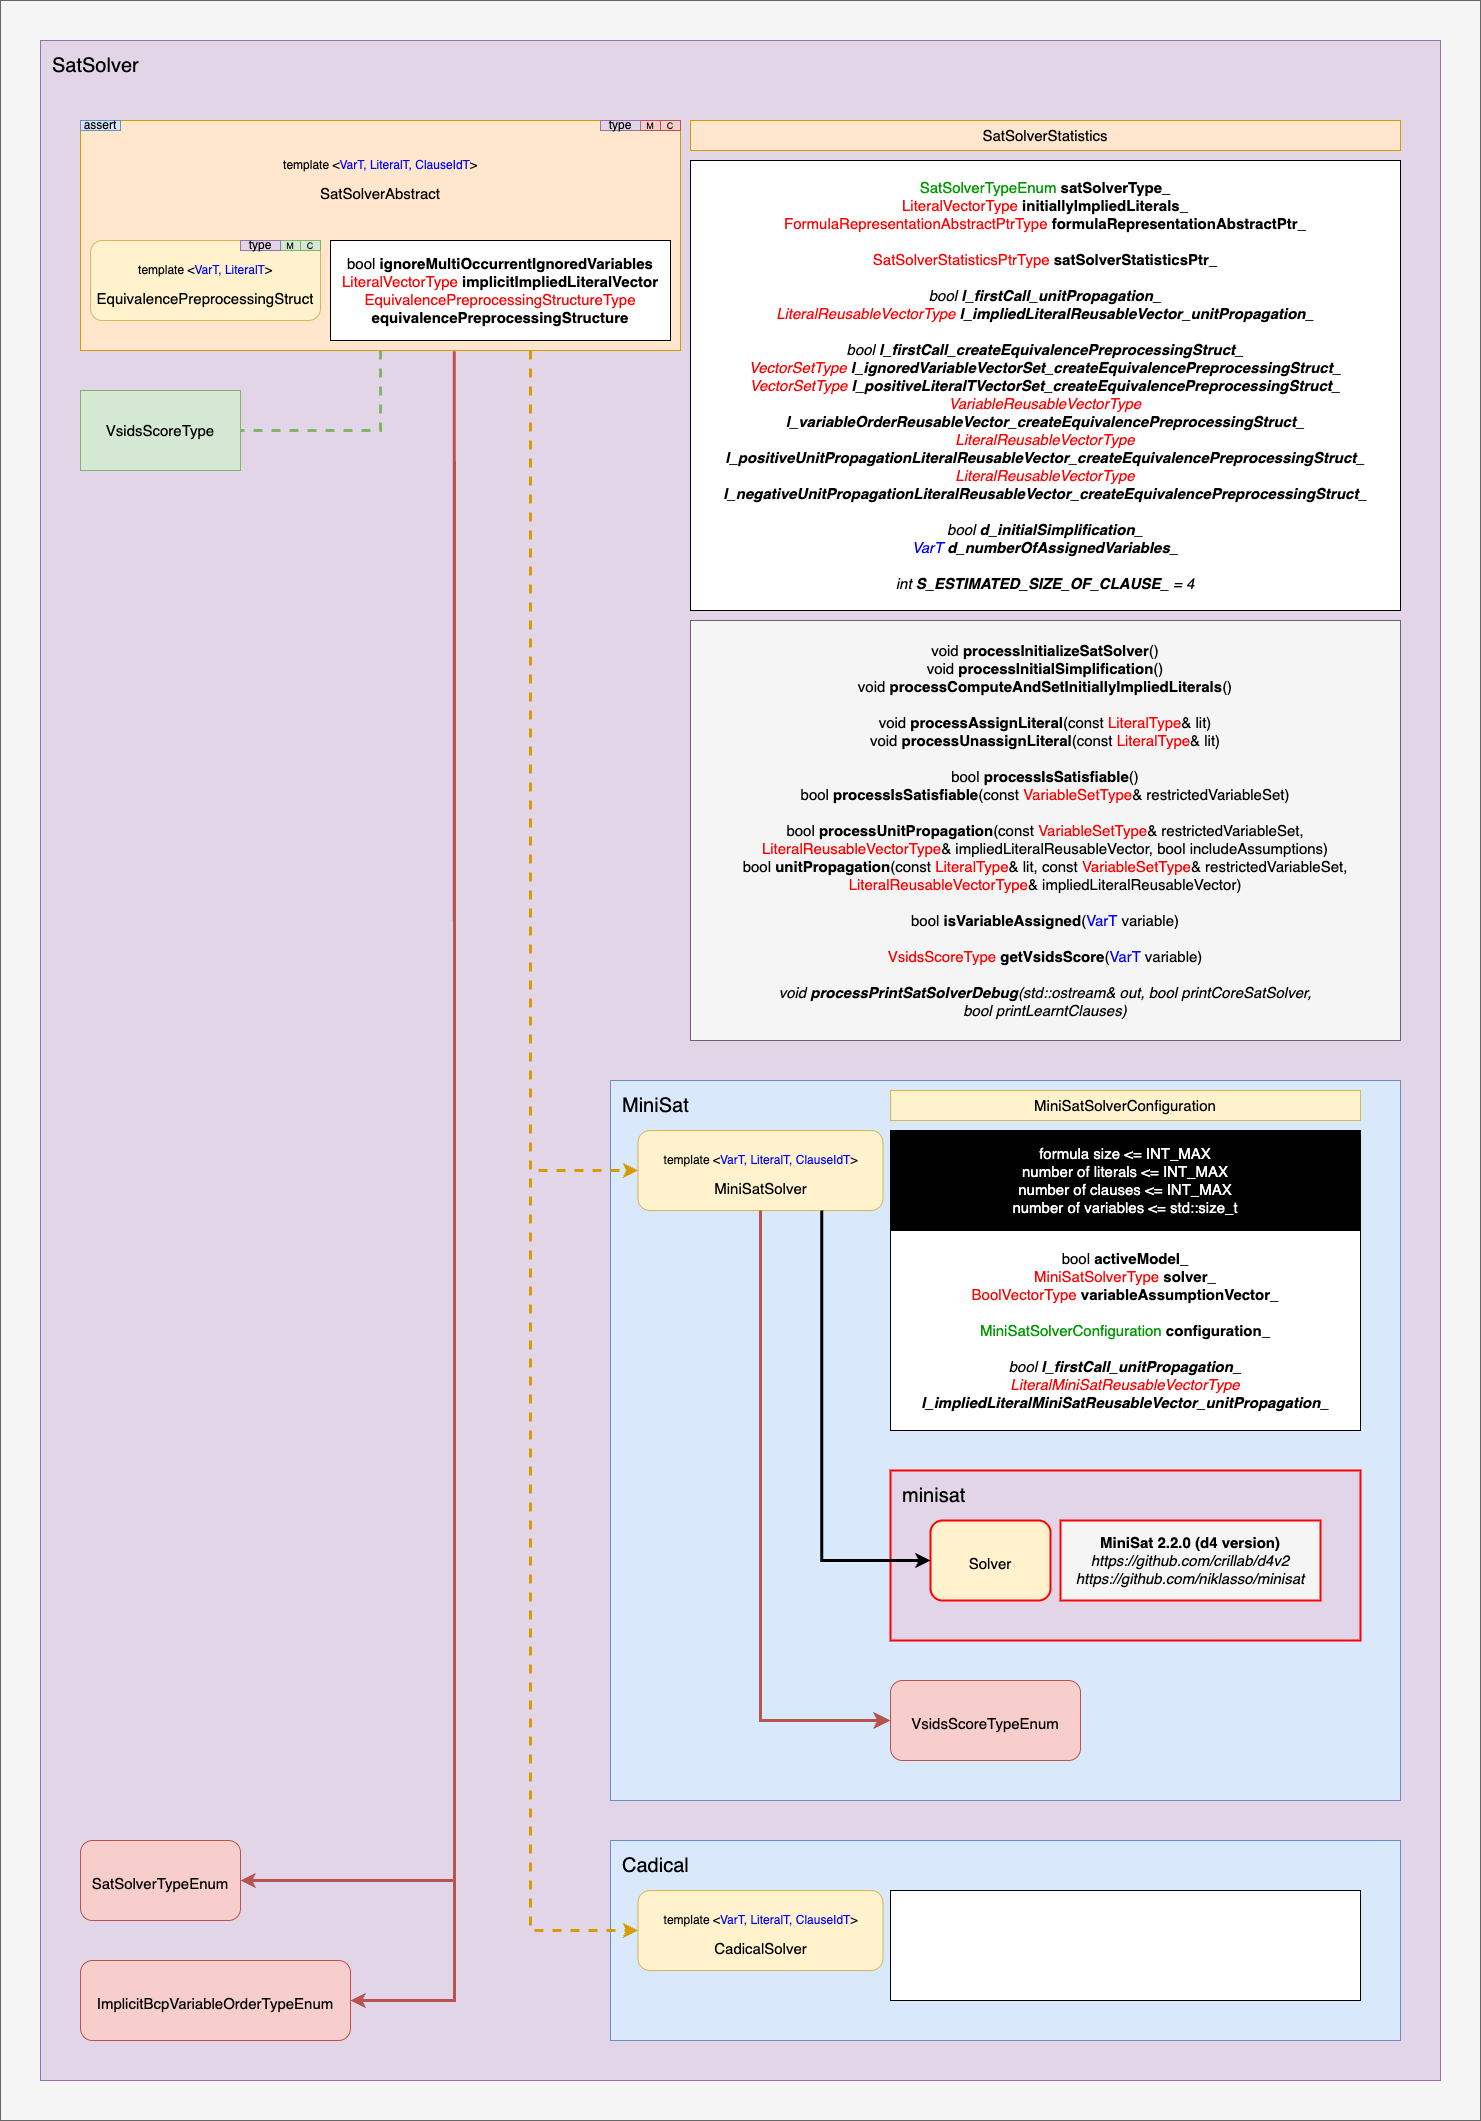
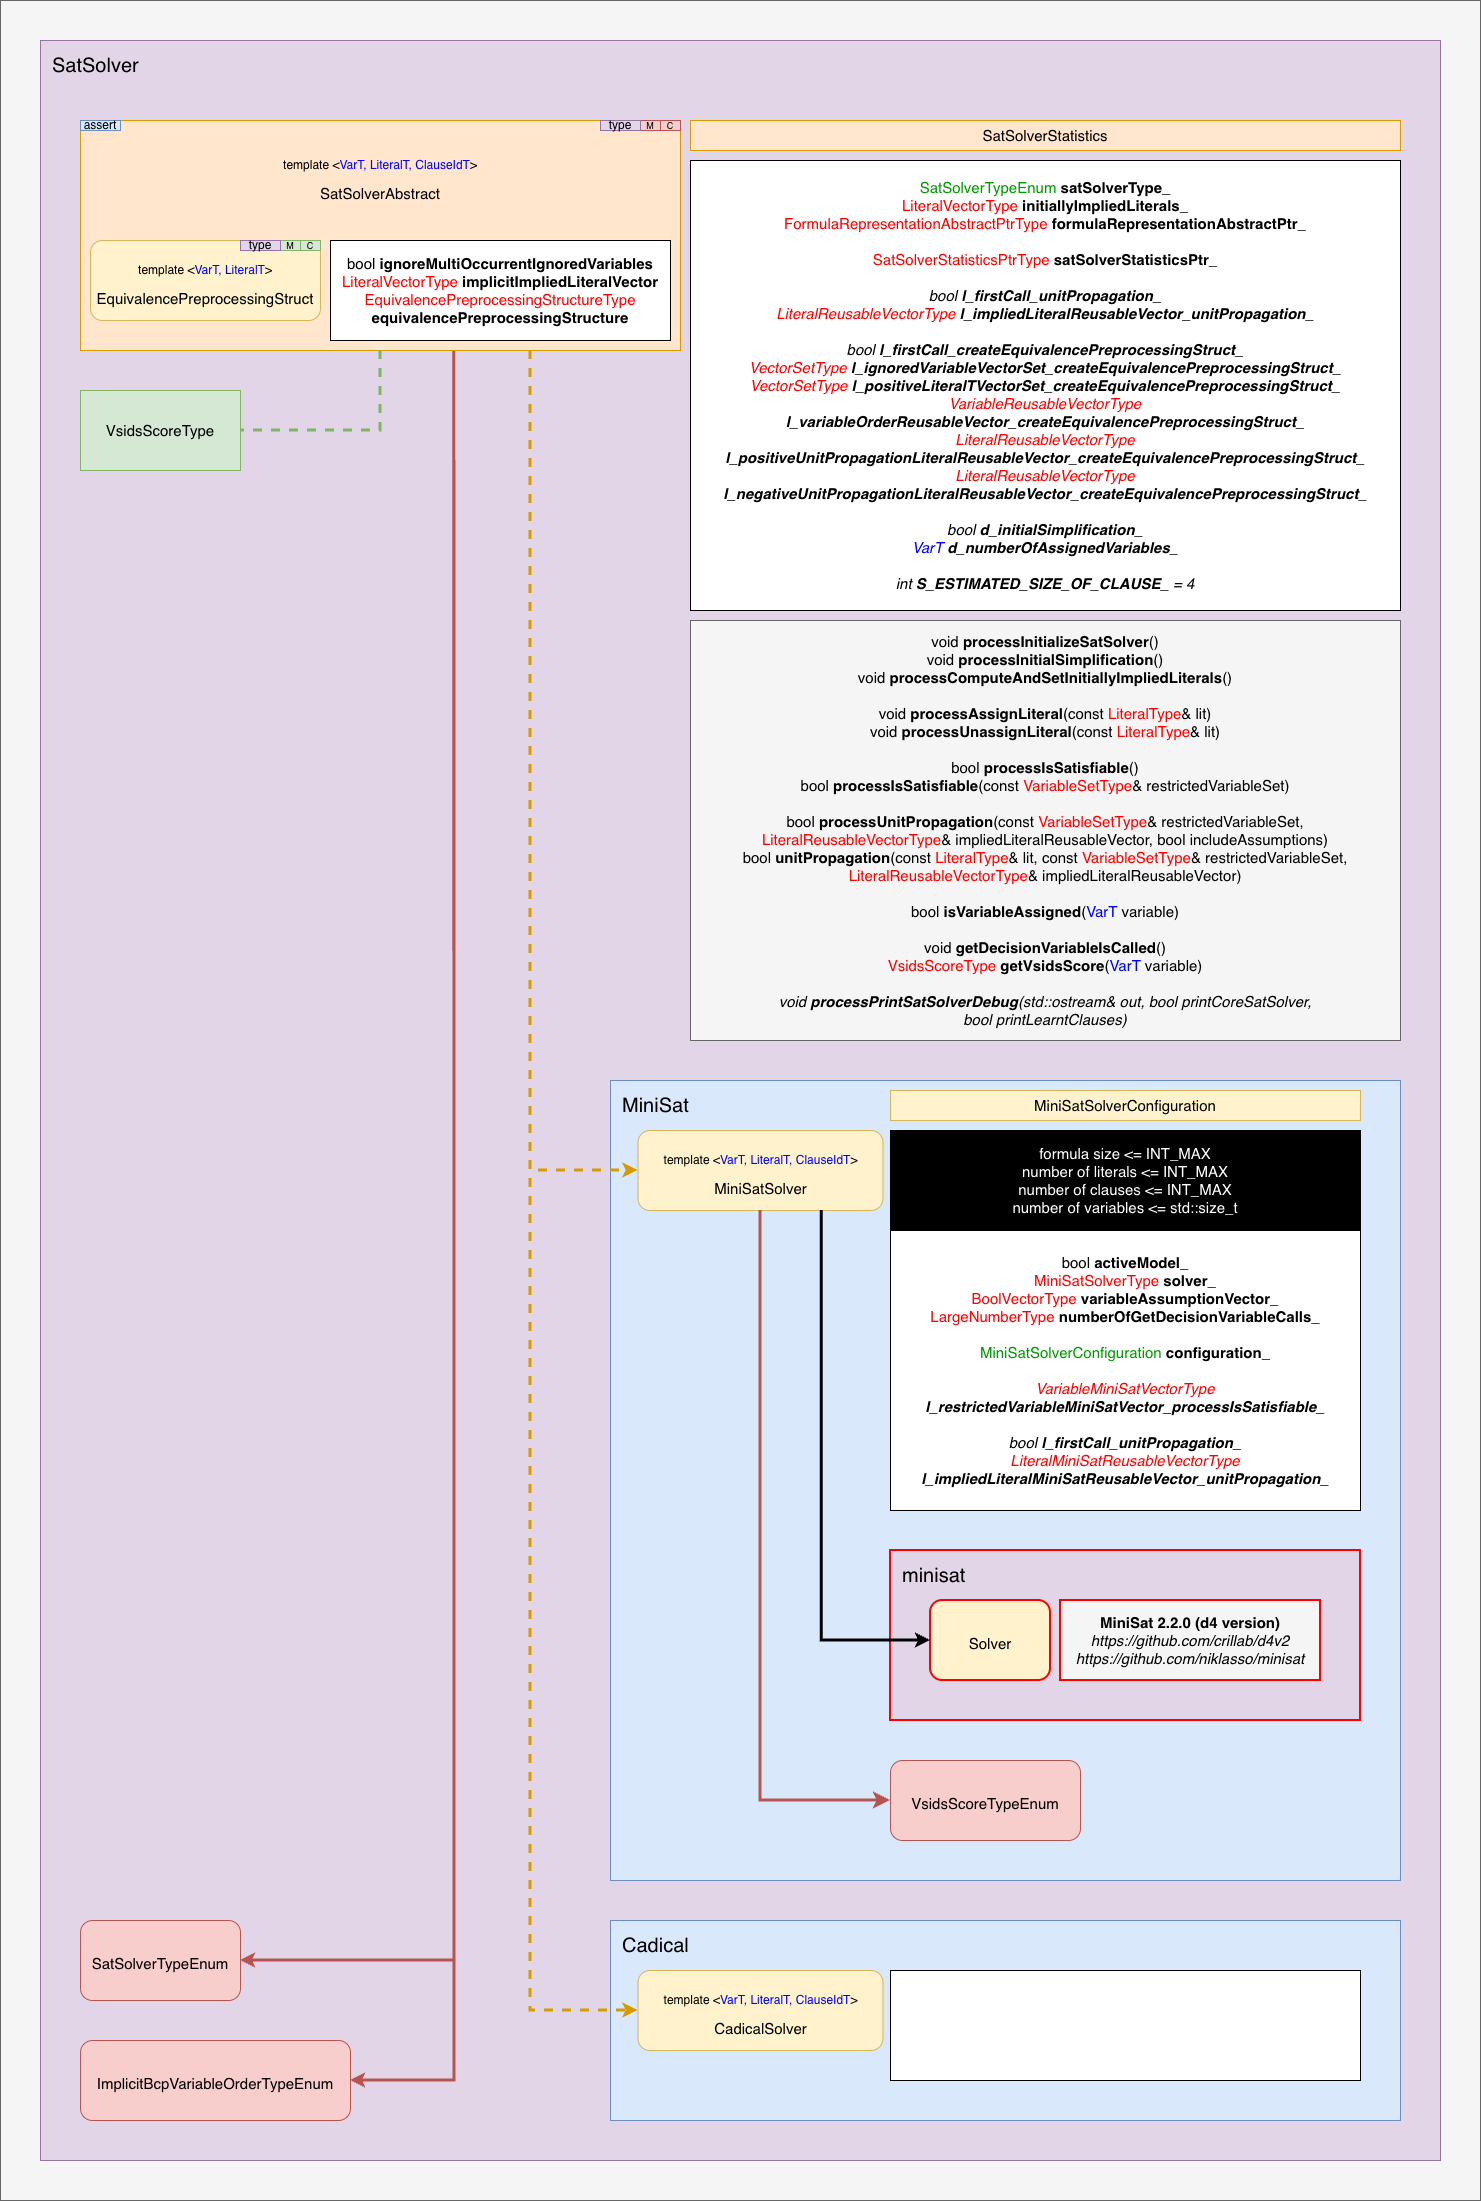
Refactoring SAT solver

diff --git a/Hydra/satSolver/minisat/MiniSatSolver.hpp b/Hydra/satSolver/minisat/MiniSatSolver.hpp
@@ -37,7 +37,6 @@ namespace Hydra::SatSolver::MiniSat {
     template <typename VarT, typename LiteralT, typename ClauseIdT>
     class MiniSatSolver final : public SatSolverAbstract<VarT, LiteralT, ClauseIdT> {
     private:
-        using LiteralMiniSatVectorType = typename minisat::vec<minisat::Lit>;
         using LiteralType = typename SatSolverAbstract<VarT, LiteralT, ClauseIdT>::LiteralType;
         using VariableSetType = typename SatSolverAbstract<VarT, LiteralT, ClauseIdT>::VariableSetType;
         using LiteralVectorType = typename SatSolverAbstract<VarT, LiteralT, ClauseIdT>::LiteralVectorType;
@@ -49,6 +48,8 @@ namespace Hydra::SatSolver::MiniSat {
     private:
         using BoolVectorType = std::vector<bool>;
         using MiniSatSolverType = minisat::Solver;
+        using LiteralMiniSatVectorType = minisat::vec<minisat::Lit>;
+        using VariableMiniSatVectorType = minisat::vec<minisat::Var>;
         using LiteralMiniSatReusableVectorType = Container::ReusableVector::ReusableVector<minisat::Lit>;
 
     public:
@@ -58,7 +59,9 @@ namespace Hydra::SatSolver::MiniSat {
             : SatSolverAbstract<VarT, LiteralT, ClauseIdT>(formulaRepresentationAbstractPtr, SatSolverTypeEnum::MINISAT, satSolverStatisticsPtr),
               activeModel_(false), solver_(),
               variableAssumptionVector_(this->formulaRepresentationAbstractPtr_->getNumberOfVariablesInOriginalFormulaUsedForIndexing(), false),
-              configuration_(configuration), l_firstCall_unitPropagation_(true), l_impliedLiteralMiniSatReusableVector_unitPropagation_() {
+              numberOfGetDecisionVariableCalls_(0), configuration_(configuration),
+              l_restrictedVariableMiniSatVector_processIsSatisfiable_(this->formulaRepresentationAbstractPtr_->getNumberOfVariablesInOriginalFormula()),
+              l_firstCall_unitPropagation_(true), l_impliedLiteralMiniSatReusableVector_unitPropagation_() {
             // The variables cannot be saved as std::size_t
             if (!Other::unsignedValueCanBeSavedAsStdSizeT<VarT>(this->formulaRepresentationAbstractPtr_->getNumberOfVariablesInOriginalFormula(), 1))
                 throw Exception::SomethingCannotBeSavedAsStdSizeTException("variables", this->formulaRepresentationAbstractPtr_->getNumberOfVariablesInOriginalFormula());
@@ -88,8 +91,12 @@ namespace Hydra::SatSolver::MiniSat {
         bool activeModel_;
         MiniSatSolverType solver_;
         BoolVectorType variableAssumptionVector_;
+        LargeNumberType numberOfGetDecisionVariableCalls_;
 
         MiniSatSolverConfiguration configuration_;
+
+        // Local auxiliary data structures for processIsSatisfiable
+        VariableMiniSatVectorType l_restrictedVariableMiniSatVector_processIsSatisfiable_;
 
         // Local auxiliary data structures for unitPropagation
         bool l_firstCall_unitPropagation_;
@@ -130,6 +137,8 @@ namespace Hydra::SatSolver::MiniSat {
                              LiteralReusableVectorType& impliedLiteralReusableVector) override;
 
         bool isVariableAssigned(VarT variable) const override;
+
+        void getDecisionVariableIsCalled() override;
 
     public:
         VsidsScoreType getVsidsScore(VarT variable) const override;

diff --git a/Bella/commandLineArguments/CommandLineArguments.cpp b/Bella/commandLineArguments/CommandLineArguments.cpp
@@ -211,6 +211,7 @@ namespace Bella::CommandLineArguments {
         commandLineArgumentsStruct.compilerConfiguration.useEquivalenceSimplificationMethod = Hydra::Other::Parser::CommandLineArguments::argumentExists(arguments, EQUIVALENCE_SIMPLIFICATION_METHOD_ARGUMENT);
 
         // SAT solver
+        commandLineArgumentsStruct.compilerConfiguration.satSolverType = Hydra::SatSolver::SatSolverTypeEnum::MINISAT;
         commandLineArgumentsStruct.compilerConfiguration.miniSatSolverConfiguration.vsidsScoreType = Hydra::SatSolver::MiniSat::VsidsScoreTypeEnum::D4_V2;
 
         // Component caching

diff --git a/Hydra/external/satSolvers/MiniSat_d4/Solver.hpp b/Hydra/external/satSolvers/MiniSat_d4/Solver.hpp
@@ -763,14 +763,12 @@ namespace minisat {
             rebuildOrderHeap();
         }   // rebuildWithAllVar
 
-        inline void rebuildWithConnectedComponent(vec<Var>&& v) {
+        inline void rebuildWithConnectedComponent(vec<Var>& v) {
+            v.copyTo(problemVariable);
             ++stampInTheHeap;
             for (int j = 0; j < v.size(); ++j)
                 if (value(v[j]) == l_Undef)
                     inTheHeap[v[j]] = stampInTheHeap;
-
-            v.moveTo(problemVariable);
-
             rebuildOrderHeap();
         }   // rebuidWithConnectedComponent
 

diff --git a/Hydra/satSolver/SatSolverAbstract.hpp b/Hydra/satSolver/SatSolverAbstract.hpp
@@ -217,6 +217,12 @@ namespace Hydra::SatSolver {
         const LiteralReusableVectorType& getImpliedLiteralReusableVectorFromPreviousCallOfUnitPropagation() const;
 
         /**
+         * The function is invoked when "getDecisionVariable" is called
+         * Note: used for decays
+         */
+        virtual void getDecisionVariableIsCalled() = 0;
+
+        /**
          * @param variable a variable
          * @return the VSIDS score of the variable
          * @throw SatSolverDoesNotSupportVsidsException if the SAT solver does not support VSIDS

diff --git a/Hydra/external/satSolvers/MiniSat_d4/Solver.cpp b/Hydra/external/satSolvers/MiniSat_d4/Solver.cpp
@@ -597,7 +597,7 @@ namespace minisat {
 
         for (int i = trail.size() - 1; i >= trail_lim[0]; i--) {
             Var x = var(trail[i]);
-            scoreActivityD4v2[x]++;   // CHANGED
+            ++scoreActivityD4v2[x];   // CHANGED
             if (seen[x]) {
                 if (reason(x) == CRef_Undef) {
                     assert(level(x) > 0);

diff --git a/Hydra/satSolver/cadical/CadicalSolver.hpp b/Hydra/satSolver/cadical/CadicalSolver.hpp
@@ -58,6 +58,8 @@ namespace Hydra::SatSolver::Cadical {
 
         bool isVariableAssigned(VarT variable) const override;
 
+        void getDecisionVariableIsCalled() override;
+
     public:
         VsidsScoreType getVsidsScore(VarT variable) const override;
 
